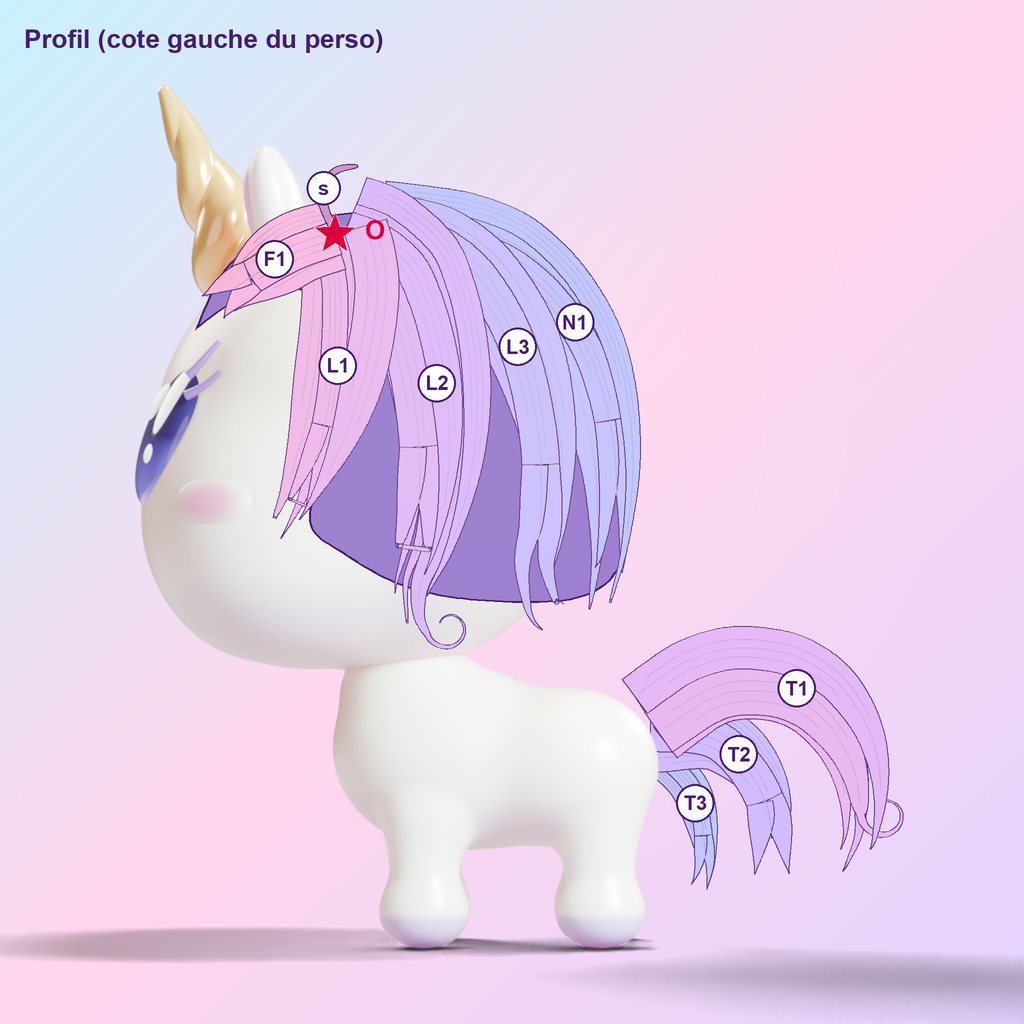
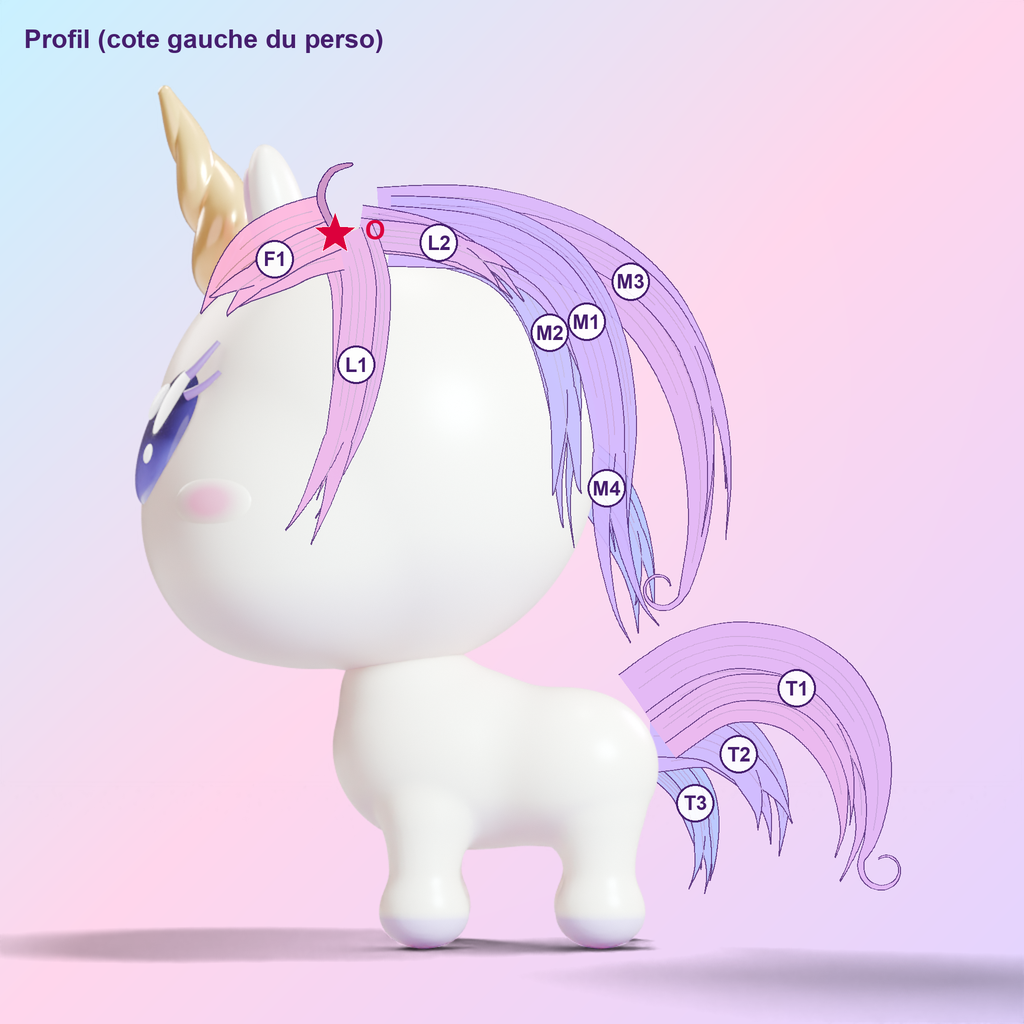
docs(spike): crest mane target after the helmet verdict

diff --git a/docs/spikes/style-2026-10/target.html b/docs/spikes/style-2026-10/target.html
@@ -131,14 +131,17 @@
       <div class="card">
         <ol>
           <li>
-            <b>Une grande forme pleine</b> (violet foncé) sous toutes les mèches
-            : plus jamais de crâne ni de fente sombre entre deux mèches (le
-            défaut corrigé 3 fois de A5 à A7).
+            <b>Une crinière de licorne, pas une chevelure</b> (ta remarque : «
+            on dirait un casque de cheveux ! ») : elle pousse sur la
+            <b>crête</b>, la ligne du milieu, de l'épi derrière la corne jusqu'à
+            la nuque. Les côtés de la tête restent <b>nus</b>, sauf ta mèche
+            derrière l'oreille (L1). La masse (M) tombe <b>derrière</b> la tête
+            et le long du cou, avec de l'air entre elle et le crâne ; plus de
+            masse de base collée à la tête.
           </li>
           <li>
             <b>Une seule origine</b> (étoile <b>O</b>, un épi derrière la corne)
-            : toutes les mèches en partent. Fini le bourrelet rose autour de la
-            corne.
+            : toutes les mèches en partent ; le toupet (F) balaie le front.
           </li>
           <li>
             <b>Finesse, à la manière des références ci-dessous</b> : chaque
@@ -149,26 +152,26 @@
             d'environ 495 px de large en 3/4 (1/25 à 1/45 de la tête).
           </li>
           <li>
-            <b>Mais une hiérarchie</b> : faisceaux de trois tailles — gros (L2,
-            T1), moyens (L1, N1, F1, R1), petits (L3, F2, T3) — et seulement 3
-            brins isolés (« s ») placés exprès. Des mèches fines toutes égales
-            donnent des spaghettis (A4 à A7) : essayé sur cette carte, même
-            résultat.
+            <b>Mais une hiérarchie</b> : faisceaux de tailles différentes (gros
+            : M1, M2, F1, T1 ; moyens : M3, L1, N ; petits : L2, F2, R, T3) et
+            seulement 2 brins isolés (« s ») placés exprès. Des mèches fines
+            toutes égales donnent des spaghettis (A4 à A7) : essayé sur cette
+            carte, même résultat.
           </li>
           <li>
-            <b>Trois boucles en tout</b>, portées par la mèche la plus large de
-            son faisceau : bout de la frange F1, bout de L2, bout de la queue
-            T1.
+            <b>Peu de boucles</b>, portées par la mèche la plus large de son
+            faisceau : bout du toupet F1, bout de la mèche extérieure de la
+            masse, bout de la queue T1.
           </li>
           <li>
-            <b>Asymétrie voulue</b> : la frange part vers l'œil droit, le volume
-            est du côté gauche du perso (côté caméra en 3/4), le côté droit est
-            plus mince.
+            <b>Asymétrie voulue</b> : le toupet part vers l'œil droit ; la masse
+            tombe surtout du côté gauche du perso et derrière ; à droite, juste
+            une petite touffe derrière l'oreille (R).
           </li>
           <li>
-            <b>Gestes différents</b> : L1 rentre vers la joue, L2 ressort et
-            s'enroule, L3 part en arrière ; longueurs différentes (L1 courte, L2
-            la plus longue).
+            <b>Gestes différents</b> : L1 rentre vers la joue, la masse s'écarte
+            de la tête puis retombe, la mèche extérieure s'enroule ; longueurs
+            différentes, rien ne descend plus bas que l'épaule.
           </li>
           <li>
             <b>Queue refaite avec les mêmes règles</b> : 3 mèches de tailles
@@ -302,16 +305,17 @@
     </main>
     <script>
       const ITEMS = [
-        ['silhouette', 'Silhouette générale (pointillés rouges)'],
+        ['crete', 'Crinière en crête, tête nue (plus de casque)'],
         ['origine', 'Origine O (épi derrière la corne)'],
         ['frange', 'Frange F1 / F2 (vers l’œil droit)'],
-        ['gauche', 'Côté gauche L1, L2, L3'],
-        ['droit', 'Côté droit R1, R2 (plus mince)'],
-        ['nuque', 'Nuque N1 à N3 (vue de dos)'],
+        ['gauche', 'Mèches L1, L2 sur le côté gauche'],
+        ['masse', 'Masse M derrière la tête et le cou'],
+        ['droit', 'Petite touffe R derrière l’oreille droite'],
+        ['nuque', 'Nuque N1 à N6 (vue de dos)'],
         ['boucles', '3 boucles seulement (F1, L2, T1)'],
         ['finesse', 'Finesse (faisceaux de mèches fines)'],
         ['queue', 'Queue T1 à T3'],
-        ['longueur', 'Longueur (jusque sous le menton)'],
+        ['longueur', 'Longueur (jusqu’à l’épaule)'],
       ];
       const table = document.getElementById('items');
       const out = document.getElementById('out');

diff --git a/docs/spikes/style-2026-10/target/design.py b/docs/spikes/style-2026-10/target/design.py
@@ -1,10 +1,15 @@
-"""Target design of the mane and tail (2026-10-24), four views, for paintover.py.
+"""Target design of the mane and tail, four views, for paintover.py.
 
-A paint-over MAP, not a render: clumps (gesture lines) placed by hand over the bald renders made by
-bald_views.py (same framing as A7), using the skull landmarks that script prints.
-Labels: F forelock, L character's left side (camera side in 3/4), R character's right side,
-N nape, T tail, s small strand. 'back' = drawn behind the character. "base" = the solid big form
-under every clump; "silhouette" = its outline; "origin" = where every lock starts (a whorl).
+A paint-over MAP, not a render: clumps (gesture lines) placed by hand over the bald renders made
+by bald_views.py (same framing as A7), using the skull landmarks that script prints. Each clump
+is drawn as a bundle of fine locks (user, 2026-10-24: « attention à la finesse de la crinière »).
+
+Crest mane (user, 2026-10-24, refusing the previous map: « on dirait un casque de cheveux ! »):
+roots on the midline only, from a whorl behind the horn (O) to the nape; the forelock sweeps
+over the forehead; the mass falls behind the head and down the neck with air between it and the
+skull; the sides of the head stay bare except the lock the user drew behind the ear (L1).
+Labels: F forelock, L locks over the near side (character's left), M main mass behind the head,
+N nape (back view), R far side, T tail, s small strand. 'back' = drawn behind the character.
 """
 
 import os
@@ -19,7 +24,7 @@ def out(view):
 
 def bundle(label, spine, half, t, curl=None, back=False, seed=0.0):
     """One readable clump (gesture = spine, half-width = half) drawn as 3-6 fine locks of varied
-    widths converging to the tip (user, 2026-10-24: « attention à la finesse de la crinière »)."""
+    widths converging to the tip."""
     n = max(3, min(6, round(half / 9)))
     sec = {"label": label, "spine": spine, "half": half, "n": n, "t": (t - 0.07, t + 0.07), "min_len": 0.78, "seed": seed, "back": back}
     if curl:
@@ -27,100 +32,76 @@ def bundle(label, spine, half, t, curl=None, back=False, seed=0.0):
     return sec
 
 
-def fine(clumps):
-    """Medium clumps ('M') -> bundles of fine locks; small strands ('S') kept as they are."""
-    res = []
-    for k, (label, cls, pts, w, curl, t, *layer) in enumerate(clumps):
-        if cls == "M":
-            res.append(bundle(label, pts, w, t, curl, layer == ["back"], seed=(k * 0.29) % 1))
-        else:
-            res.append((label, cls, pts, w * 0.6, curl, t, *layer))
-    return res
+COWLICK = [(0, 0), (-14, -34), (-4, -60), (18, -68)]  # small strand standing up from the whorl
+
+
+def cowlick(x, y):
+    return ("", "S", [(x + dx, y + dy) for dx, dy in COWLICK], 4, None, 0.05)
 
 
 Q = [
-    ("T3", "M", [(650, 760), (690, 800), (706, 860), (694, 905)], 16, None, 0.85, "back"),
-    ("T2", "M", [(648, 750), (716, 760), (764, 810), (770, 880)], 28, None, 0.6, "back"),
-    ("T1", "M", [(650, 740), (722, 698), (800, 700), (850, 760), (856, 838), (826, 892)], 40, (24, 0.9, -1), 0.3, "back"),
-    ("R1", "M", [(380, 205), (300, 212), (232, 245), (185, 310), (160, 400), (155, 500), (170, 590)], 28, None, 0.5),
-    ("N1", "M", [(470, 214), (610, 240), (715, 325), (760, 445), (765, 560), (745, 655)], 40, None, 0.8),
-    ("L3", "M", [(445, 212), (565, 228), (665, 292), (712, 392), (718, 480), (716, 550), (752, 598)], 30, None, 0.65),
-    ("L2", "M", [(432, 210), (530, 222), (615, 280), (652, 370), (650, 470), (628, 560), (640, 640)], 52, (22, 0.85, -1), 0.4),
-    ("L1", "M", [(420, 210), (485, 232), (548, 290), (585, 370), (588, 450), (566, 520), (538, 560)], 38, None, 0.2),
-    ("s", "S", [(712, 600), (742, 640), (772, 642)], 7, None, 0.9),
-    ("", "S", [(760, 470), (792, 500), (800, 545)], 7, None, 0.7),
-    ("F2", "M", [(408, 214), (372, 250), (330, 272), (296, 280)], 20, None, 0.12),
-    ("F1", "M", [(420, 210), (395, 245), (350, 276), (295, 290), (245, 288)], 34, (18, 0.9, 1), 0.05),
-    ("s", "S", [(418, 208), (404, 174), (414, 148), (436, 140)], 7, None, 0.05),
+    bundle("T3", [(650, 760), (690, 800), (706, 860), (694, 905)], 16, 0.85, back=True, seed=0.1),
+    bundle("T2", [(648, 750), (716, 760), (764, 810), (770, 880)], 28, 0.6, back=True, seed=0.4),
+    bundle("T1", [(650, 740), (722, 698), (800, 700), (850, 760), (856, 838), (826, 892)], 40, 0.3, curl=(22, 0.9, -1), back=True, seed=0.7),
+    bundle("R", [(400, 210), (335, 210), (282, 228), (248, 258)], 18, 0.55, back=True, seed=0.2),
+    bundle("M4", [(540, 330), (630, 395), (685, 470), (700, 560), (690, 640)], 24, 0.85, back=True, seed=0.9),
+    bundle("M2", [(480, 225), (580, 250), (668, 310), (722, 400), (738, 490), (726, 575), (742, 640)], 32, 0.7, back=True, seed=0.5),
+    bundle("M1", [(470, 215), (560, 222), (650, 262), (718, 330), (756, 420), (764, 510), (748, 590), (768, 650)], 34, 0.55, back=True, seed=0.3),
+    bundle("M3", [(460, 212), (570, 204), (680, 232), (770, 296), (816, 388), (826, 480), (806, 560), (780, 610)], 30, 0.4, curl=(22, 0.9, 1), back=True, seed=0.8),
+    bundle("L2", [(452, 212), (540, 224), (612, 266), (655, 330)], 20, 0.3, seed=0.6),
+    bundle("L1", [(440, 214), (500, 240), (548, 300), (575, 380), (575, 460), (555, 530)], 26, 0.2, seed=0.35),
+    bundle("F2", [(415, 212), (385, 248), (345, 275), (318, 300)], 18, 0.12, seed=0.6),
+    bundle("F1", [(425, 208), (395, 235), (350, 262), (300, 276), (250, 282)], 34, 0.05, curl=(18, 0.9, 1), seed=0.9),
+    cowlick(418, 208),
+    ("", "S", [(690, 236), (735, 214), (770, 222)], 4, None, 0.4),
 ]
-Q_MARKS = [
-    ("base", [(150, 600), (148, 440), (180, 315), (255, 232), (360, 192), (470, 180), (600, 205), (715, 290), (765, 425), (765, 540), (740, 600), (690, 610), (640, 590), (608, 550), (600, 520), (595, 430), (570, 340), (520, 270), (450, 235), (380, 235), (300, 250), (240, 290), (200, 350), (178, 440), (175, 540)]),
-    ("origin", 420, 210, "O"),
-    ("silhouette", [(140, 630), (138, 440), (170, 310), (250, 225), (360, 182), (472, 168), (605, 198), (722, 285), (778, 420), (782, 560), (760, 690)]),
-]
+Q_MARKS = [("origin", 420, 210, "O")]
 
 FRONT = [
-    ("L3", "M", [(570, 212), (700, 240), (790, 330), (812, 440), (806, 560)], 30, None, 0.65, "back"),
-    ("R2", "M", [(500, 212), (390, 230), (300, 290), (250, 390), (240, 500), (255, 580)], 24, None, 0.6, "back"),
-    ("L2", "M", [(560, 212), (670, 235), (750, 320), (782, 430), (782, 540), (766, 620)], 50, (22, 0.85, -1), 0.4),
-    ("R1", "M", [(510, 210), (420, 222), (342, 262), (292, 332), (270, 420), (270, 520), (288, 596)], 30, None, 0.5),
-    ("L1", "M", [(548, 214), (632, 238), (696, 300), (732, 390), (742, 480), (728, 548)], 36, None, 0.2),
-    ("F2", "M", [(528, 216), (502, 250), (468, 280), (444, 300)], 18, None, 0.12),
-    ("F1", "M", [(535, 212), (515, 246), (478, 272), (428, 288), (382, 290)], 32, (18, 0.9, 1), 0.05),
-    ("s", "S", [(535, 210), (528, 176), (542, 150), (566, 144)], 7, None, 0.05),
+    bundle("R", [(500, 212), (400, 222), (322, 262), (272, 340), (255, 440), (262, 540), (282, 610)], 24, 0.6, back=True, seed=0.2),
+    bundle("M2", [(555, 214), (640, 240), (705, 300), (748, 390), (764, 500), (750, 600)], 24, 0.7, back=True, seed=0.5),
+    bundle("M1", [(560, 212), (660, 225), (740, 275), (790, 360), (806, 460), (792, 560), (772, 630)], 30, 0.55, curl=(20, 0.85, -1), back=True, seed=0.3),
+    bundle("L2", [(545, 212), (610, 218), (665, 240), (700, 275)], 16, 0.3, seed=0.6),
+    bundle("L1", [(565, 214), (635, 230), (695, 275), (730, 350), (745, 430), (745, 510)], 18, 0.2, seed=0.35),
+    bundle("F2", [(528, 216), (502, 250), (468, 280), (444, 300)], 16, 0.12, seed=0.6),
+    bundle("F1", [(535, 212), (515, 246), (478, 272), (428, 288), (382, 290)], 32, 0.05, curl=(18, 0.9, 1), seed=0.9),
+    cowlick(535, 210),
 ]
-FRONT_MARKS = [
-    ("base", [(240, 555), (232, 450), (258, 330), (335, 240), (445, 200), (560, 192), (688, 225), (782, 305), (815, 430), (812, 530), (790, 570), (758, 560), (745, 500), (740, 440), (725, 380), (680, 300), (610, 255), (520, 240), (430, 250), (355, 280), (300, 340), (275, 430), (270, 520), (262, 560)]),
-    ("origin", 535, 212, "O"),
-    ("silhouette", [(225, 600), (222, 450), (250, 320), (330, 230), (440, 190), (560, 182), (690, 215), (790, 300), (835, 430), (835, 560), (810, 650)]),
-]
+FRONT_MARKS = [("origin", 535, 212, "O")]
 
 SIDE = [
-    ("T3", "M", [(648, 750), (690, 790), (705, 860), (695, 905)], 16, None, 0.85, "back"),
-    ("T2", "M", [(650, 735), (720, 740), (770, 800), (775, 880)], 28, None, 0.6, "back"),
-    ("T1", "M", [(650, 720), (720, 680), (800, 690), (850, 750), (860, 830), (835, 890)], 40, (24, 0.9, -1), 0.3, "back"),
-    ("N1", "M", [(380, 228), (500, 250), (580, 330), (615, 440), (615, 550), (595, 640)], 40, None, 0.8),
-    ("L3", "M", [(360, 230), (450, 255), (510, 330), (540, 430), (545, 520), (540, 590), (575, 630)], 30, None, 0.65),
-    ("L2", "M", [(345, 232), (400, 262), (430, 340), (440, 440), (430, 530), (410, 600), (430, 650)], 52, (22, 0.85, -1), 0.4),
-    ("L1", "M", [(335, 234), (345, 280), (340, 350), (325, 430), (300, 500), (275, 545)], 38, None, 0.2),
-    ("F1", "M", [(335, 234), (290, 250), (240, 285), (205, 322)], 30, None, 0.05),
-    ("s", "S", [(335, 232), (322, 198), (334, 172), (358, 166)], 7, None, 0.05),
+    bundle("T3", [(648, 750), (690, 790), (705, 860), (695, 905)], 16, 0.85, back=True, seed=0.1),
+    bundle("T2", [(650, 735), (720, 740), (770, 800), (775, 880)], 28, 0.6, back=True, seed=0.4),
+    bundle("T1", [(650, 720), (720, 680), (800, 690), (850, 750), (860, 830), (835, 890)], 40, 0.3, curl=(24, 0.9, -1), back=True, seed=0.7),
+    bundle("M4", [(520, 420), (600, 480), (640, 560), (645, 640)], 22, 0.85, back=True, seed=0.9),
+    bundle("M3", [(380, 226), (480, 222), (580, 250), (660, 310), (705, 400), (715, 500), (700, 580), (676, 630)], 30, 0.4, curl=(22, 0.9, 1), back=True, seed=0.8),
+    bundle("M2", [(420, 232), (500, 262), (545, 320), (565, 410), (565, 500), (580, 580)], 22, 0.7, seed=0.5),
+    bundle("M1", [(390, 228), (480, 236), (550, 270), (590, 330), (612, 420), (615, 520), (630, 600), (655, 645)], 28, 0.55, seed=0.3),
+    bundle("L2", [(360, 230), (430, 240), (490, 268), (530, 310)], 18, 0.3, seed=0.6),
+    bundle("L1", [(345, 234), (360, 280), (358, 350), (345, 430), (320, 500), (295, 545)], 24, 0.2, seed=0.35),
+    bundle("F1", [(335, 234), (290, 250), (240, 285), (205, 322)], 30, 0.05, seed=0.9),
+    cowlick(335, 232),
 ]
-SIDE_MARKS = [
-    ("base", [(195, 330), (235, 258), (330, 215), (450, 222), (555, 272), (620, 380), (632, 500), (618, 570), (570, 600), (470, 600), (400, 585), (345, 555), (310, 525), (320, 470), (335, 400), (340, 320), (300, 290), (240, 300)]),
-    ("origin", 335, 234, "O"),
-    ("silhouette", [(175, 335), (228, 252), (330, 205), (452, 212), (562, 268), (632, 380), (648, 520), (628, 655)]),
-]
+SIDE_MARKS = [("origin", 335, 234, "O")]
 
 BACK = [
-    ("L1", "M", [(435, 252), (330, 260), (265, 320), (240, 420), (245, 500)], 30, None, 0.2, "back"),
-    ("R2", "M", [(480, 248), (590, 270), (665, 340), (700, 440), (700, 540), (680, 610)], 26, None, 0.6, "back"),
-    ("L2", "M", [(440, 250), (360, 275), (290, 350), (260, 450), (262, 540), (280, 620)], 52, (22, 0.85, 1), 0.4),
-    ("R1", "M", [(470, 250), (560, 262), (630, 320), (668, 410), (672, 510), (655, 600)], 30, None, 0.5),
-    ("L3", "M", [(445, 250), (390, 290), (340, 370), (320, 470), (325, 560), (305, 620)], 30, None, 0.65),
-    ("N2", "M", [(448, 252), (400, 320), (395, 420), (410, 520), (400, 610), (420, 655)], 34, None, 0.7),
-    ("N3", "M", [(462, 252), (530, 320), (560, 420), (565, 520), (550, 600), (565, 650)], 36, None, 0.75),
-    ("N1", "M", [(455, 250), (445, 330), (468, 430), (490, 520), (482, 600), (502, 662)], 44, None, 0.8),
-    ("T3", "M", [(525, 720), (540, 790), (530, 860)], 16, None, 0.85),
-    ("T2", "M", [(530, 710), (575, 740), (600, 810), (590, 880)], 28, None, 0.6),
-    ("T1", "M", [(530, 700), (560, 660), (620, 650), (660, 700), (670, 790), (645, 860)], 40, (24, 0.9, -1), 0.3),
-    ("s", "S", [(452, 248), (440, 214), (452, 188), (476, 182)], 7, None, 0.05),
+    bundle("N3", [(445, 250), (370, 265), (300, 320), (262, 410), (255, 510), (270, 600), (252, 650)], 30, 0.45, curl=(22, 0.9, 1), back=True, seed=0.8),
+    bundle("R", [(470, 250), (560, 262), (625, 315), (655, 400), (660, 480)], 20, 0.6, back=True, seed=0.2),
+    bundle("N4", [(462, 252), (520, 300), (552, 390), (560, 490), (548, 590), (565, 655)], 30, 0.75, seed=0.5),
+    bundle("N2", [(448, 252), (400, 300), (360, 380), (345, 480), (352, 580), (338, 650)], 34, 0.6, seed=0.3),
+    bundle("N5", [(450, 252), (420, 320), (405, 420), (412, 520), (398, 610), (414, 668)], 30, 0.65, seed=0.45),
+    bundle("N6", [(458, 252), (494, 322), (512, 420), (522, 520), (514, 610), (532, 664)], 30, 0.72, seed=0.65),
+    bundle("N1", [(455, 250), (450, 330), (462, 430), (476, 520), (470, 610), (488, 680)], 40, 0.7, seed=0.1),
+    bundle("T3", [(525, 720), (540, 790), (530, 860)], 16, 0.85, seed=0.1),
+    bundle("T2", [(530, 710), (575, 740), (600, 810), (590, 880)], 28, 0.6, seed=0.4),
+    bundle("T1", [(530, 700), (560, 660), (620, 650), (660, 700), (670, 790), (645, 860)], 40, 0.3, curl=(24, 0.9, -1), seed=0.7),
+    cowlick(452, 248),
 ]
-BACK_MARKS = [
-    ("base", [(232, 560), (222, 450), (250, 330), (335, 255), (455, 225), (580, 245), (675, 320), (708, 440), (702, 540), (665, 590), (470, 615), (290, 590)]),
-    ("origin", 452, 250, "O"),
-    ("silhouette", [(215, 620), (210, 450), (240, 330), (330, 245), (455, 210), (580, 232), (680, 310), (725, 440), (722, 560), (700, 640)]),
-]
-
-def solid(marks):
-    """The fine version is slimmer than the first draft's dashed silhouette: the base outline is
-    the big form now."""
-    return [m for m in marks if m[0] != "silhouette"]
-
+BACK_MARKS = [("origin", 452, 250, "O")]
 
 VIEWS = [
-    (B.format("3q"), fine(Q), solid(Q_MARKS), out("3q"), "3/4"),
-    (B.format("front"), fine(FRONT), solid(FRONT_MARKS), out("front"), "Face"),
-    (B.format("side"), fine(SIDE), solid(SIDE_MARKS), out("side"), "Profil (cote gauche du perso)"),
-    (B.format("back"), fine(BACK), solid(BACK_MARKS), out("back"), "Dos"),
+    (B.format("3q"), Q, Q_MARKS, out("3q"), "3/4"),
+    (B.format("front"), FRONT, FRONT_MARKS, out("front"), "Face"),
+    (B.format("side"), SIDE, SIDE_MARKS, out("side"), "Profil (cote gauche du perso)"),
+    (B.format("back"), BACK, BACK_MARKS, out("back"), "Dos"),
 ]

diff --git a/docs/spikes/style-2026-10/target/paintover.py b/docs/spikes/style-2026-10/target/paintover.py
@@ -70,9 +70,13 @@ def width(t, w):
 
 
 def normal(c, i):
-    a, b = c[max(i - 1, 0)], c[min(i + 1, len(c) - 1)]
-    L = math.hypot(b[0] - a[0], b[1] - a[1]) or 1
-    return -(b[1] - a[1]) / L, (b[0] - a[0]) / L
+    """Unit normal at c[i]; widens the neighbour window past coincident points."""
+    for r in range(1, len(c)):
+        a, b = c[max(i - r, 0)], c[min(i + r, len(c) - 1)]
+        L = math.hypot(b[0] - a[0], b[1] - a[1])
+        if L > 1e-6:
+            return -(b[1] - a[1]) / L, (b[0] - a[0]) / L
+    return 0.0, 0.0
 
 
 def fine_width(t, w):
@@ -170,9 +174,18 @@ def section_locks(sec):
         w = min(spacing * sec.get("overlap", 1.25), sec.get("max_w", 26)) * (0.65 + 0.7 * frac(k * 0.382 + sec.get("seed", 0.0)))
         widest = max(range(n), key=lambda j: frac(j * 0.382 + sec.get("seed", 0.0)))
         curl = sec["curl"] if "curl" in sec and k == widest else None
-        locks.append((pts[::3] + [pts[-1]], w, curl, sec["t"][0] + (sec["t"][1] - sec["t"][0]) * u, k % 3 == 1 and not curl))
+        keep = pts[::3] if (len(pts) - 1) % 3 == 0 else pts[::3] + [pts[-1]]  # no duplicated tip point
+        locks.append((keep, w, curl, sec["t"][0] + (sec["t"][1] - sec["t"][0]) * u, k % 3 == 1 and not curl))
     order = sorted(range(n), key=lambda k: (k % 2, k)) if sec.get("interleave", True) else range(n)
     return [locks[k] for k in order]
+
+
+def inked(d, poly, fill, edge):
+    """Fill a ribbon outline and ink only its two long sides (no line across root or tip)."""
+    half = len(poly) // 2
+    d.polygon(poly, fill=fill)
+    d.line(poly[:half], fill=edge, width=SS)
+    d.line(poly[half:], fill=edge, width=SS)
 
 
 FINE_GROOVES = ((-0.4, 0.06, 0.62), (0.0, 0.03, 0.8), (0.42, 0.1, 0.55))
@@ -190,16 +203,16 @@ def draw_fine_lock(d, pts, w, curl, t, fork):
     n = len(c) - 1
     if fork:
         cut = int(n * 0.65)
-        d.polygon(ribbon(c[: cut + 1], W, fine_width, 0.0, 0.4), fill=fill, outline=edge, width=SS)
+        inked(d, ribbon(c[: cut + 1], W, fine_width, 0.0, 0.6), fill, edge)
         for s in (-1, 1):
             br = []
             for i in range(cut, n + 1):
                 nx, ny = normal(c, i)
                 f = (i - cut) / (n - cut)
-                br.append((c[i][0] + nx * s * W * (0.3 + 0.6 * f), c[i][1] + ny * s * W * (0.3 + 0.6 * f)))
-            d.polygon(ribbon(br, W * 0.7, fine_width, 0.3, 1.0), fill=fill, outline=edge, width=SS)
+                br.append((c[i][0] + nx * s * W * (0.25 + 0.6 * f), c[i][1] + ny * s * W * (0.25 + 0.6 * f)))
+            inked(d, ribbon(br, W * 0.6, fine_width, 0.45, 1.0), fill, edge)
     else:
-        d.polygon(ribbon(c, W, fine_width), fill=fill, outline=edge, width=SS)
+        inked(d, ribbon(c, W, fine_width), fill, edge)
     for off, start, end in FINE_GROOVES:
         g = []
         for i in range(int(n * start), int(n * end)):
@@ -231,9 +244,9 @@ def draw(base, clumps, marks, out, title):
     font = ImageFont.truetype("arialbd.ttf", 26 * SS)
     small = ImageFont.truetype("arialbd.ttf", 20 * SS)
     for kind, *rest in marks:
-        if kind == "base":
+        if kind == "base":  # ("base", points[, "back"]): "back" = an under-layer behind the character
             pts = [(x * SS, y * SS) for x, y in rest[0]]
-            df.polygon(catmull(pts + pts[:1], 12), fill=BASE_FILL, outline=INK + (255,), width=2 * SS)
+            (db if rest[1:] == ["back"] else df).polygon(catmull(pts + pts[:1], 12), fill=BASE_FILL, outline=INK + (255,), width=2 * SS)
     for item in clumps:
         if isinstance(item, dict):  # a section of fine locks
             for pts, w, curl, t, fork in section_locks(item):

diff --git a/docs/spikes/style-2026-10/MANE_AUDIT.md b/docs/spikes/style-2026-10/MANE_AUDIT.md
@@ -124,3 +124,28 @@ then `http://127.0.0.1:8765/target.html`), with a copy-paste feedback form.
   third tip forked, the curl on the widest lock. Counts (replay: `cd target && python -c "import
 design; [print(v[4], sum(s['n'] for s in v[1] if isinstance(s, dict))) for v in design.VIEWS]"`):
   3/4 37 locks, front 26, side 30, back 41; lock spacing 11-20 px for a head ~495 px wide in 3/4.
+
+## Verdict on the fine target (2026-10-24)
+
+User (verbatim): « c'est refusé: on dirait un casque de cheveux ! »
+
+Cause (mine, in the map's design, not its rendering): it was drawn as a **human hairstyle** — a
+cap of locks over the whole cranium on a solid base glued to the skull, both sides framing the
+face. A unicorn / pony mane grows from a **crest** (midline, forelock to nape and down the neck),
+falls to one side and behind with air between it and the head, and leaves most of the skull bare
+(Meshy « Cute little cartoon unicorn »: near side of the head bare, forelock swoop, mass behind).
+Next: the 3/4 view redrawn on that principle first, compared with the refused one, before the
+other views.
+
+## Crest map (2026-10-24, answer to « on dirait un casque de cheveux ! »)
+
+- `target/design.py` rewritten: roots on the midline only (whorl O behind the horn → nape), the
+  forelock F sweeps the forehead, the main mass M falls behind the head and down the neck (drawn
+  behind the character, so only what leaves the head's outline shows), L1 (the user's lock) and
+  a short L2 over the near side, a small far-side tuft R; back view: six nape bundles N1-N6 on
+  the crest. All "base" masses removed (they were the helmet, and read as holes).
+- Paint-over tool fixes found on the way: lock outlines no longer ink the root and tip caps; a
+  duplicated tip point (zero-length segment → bad normal → a bar across the tip) is dropped, and
+  `normal()` widens its window past coincident points.
+- Counts (same replay command as above): 3/4 40 locks, front 22, side 31, back 33; spacing still
+  11-20 px. Not voted.
